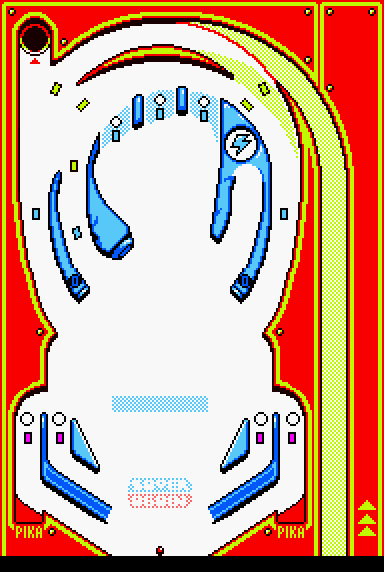
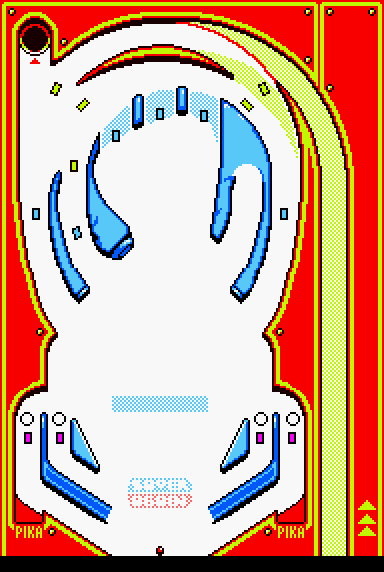
multiplier assets

diff --git a/code/engine/assetManager.js b/code/engine/assetManager.js
@@ -268,6 +268,9 @@ function preloadAnimations() {
   Asset.registerAnimationTemplate('redFieldPaddle', 'assets/img/red-field/paddle', 28, 16, 6);
   Asset.registerAnimationTemplate('redFieldChargeIndicator', 'assets/img/red-field/charge_indicator', 36, 40, 17);
 
+  Asset.registerAnimationTemplate('redFieldMultiplier', 'assets/img/red-field/multiplier', 14, 14, 10);
+  Asset.registerAnimationTemplate('redFieldMultiplierActive', 'assets/img/red-field/multiplier_active', 14, 14, 10);
+
   Asset.registerAnimationTemplate('redFieldDiglettIdle', 'assets/img/red-field/diglett_idle', 24, 32, 2);
   Asset.registerAnimationTemplate('redFieldDiglettHurt', 'assets/img/red-field/diglett_hurt', 24, 32, 1);
   Asset.registerAnimationTemplate('redFieldDugtrio', 'assets/img/red-field/dugtrio', 48, 64, 4);

diff --git a/code/stages/multiplierTarget.js b/code/stages/multiplierTarget.js
@@ -4,9 +4,12 @@ class MultiplierTarget {
 
 
     constructor(colliderX, colliderY, displayX, displayY, callback) {
-        this.sprite = new Sprite(displayX, displayY, 15, 16, "none");
+        this.sprite = new Sprite(displayX, displayY, 14, 14, "none");
         this.sprite.debug = DEBUG;
         this.sprite.layer = SCENARIO_LAYER;
+        this.sprite.addAnimation('active', Asset.getAnimation('redFieldMultiplierActive'));
+        this.sprite.addAnimation('inactive', Asset.getAnimation('redFieldMultiplier'));
+        this.sprite.ani.playing = false;
 
         this.target = new Sprite(colliderX, colliderY, 6, 9, "none");
         this.target.debug = DEBUG;
